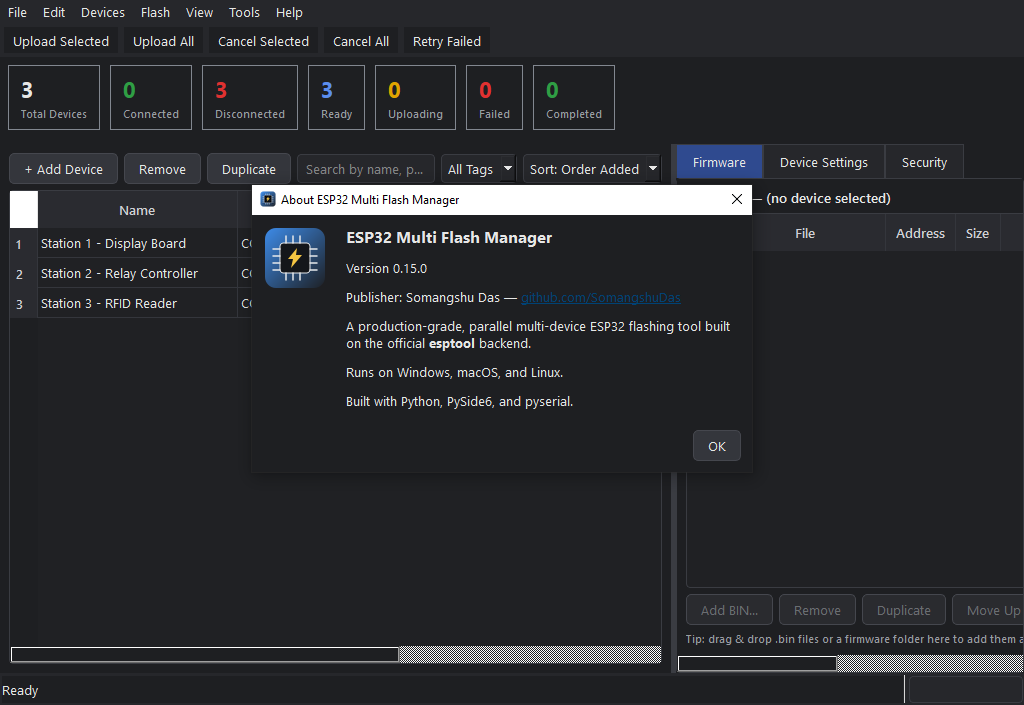
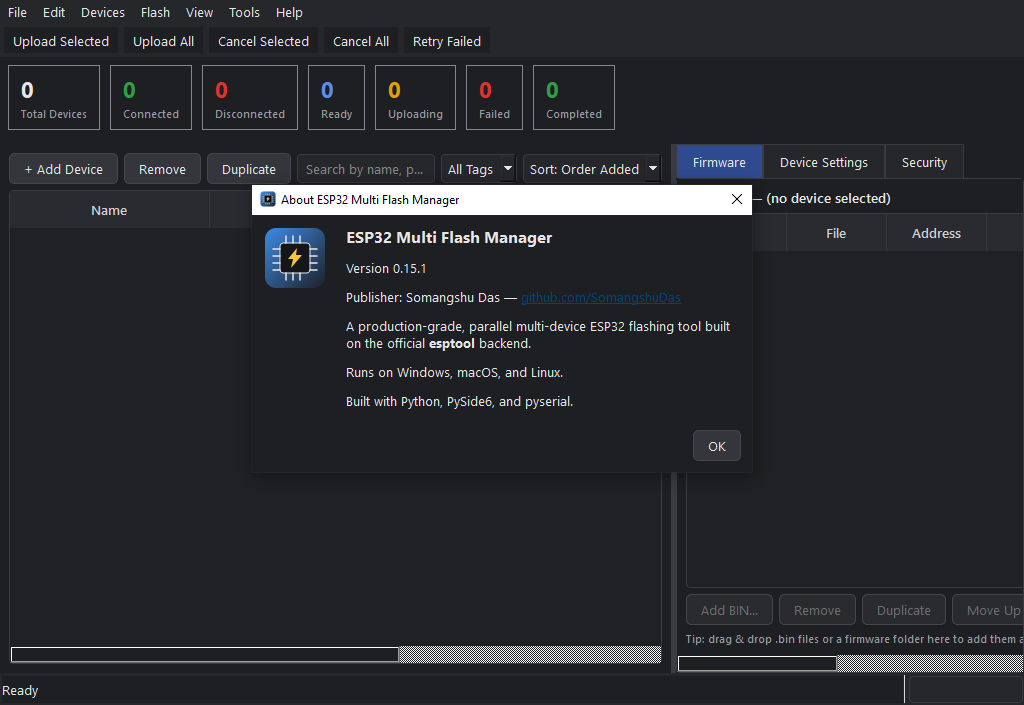
fix: match esptool 5.4+ unbracketed progress bars

diff --git a/tests/flash_engine/test_esptool_wrapper.py b/tests/flash_engine/test_esptool_wrapper.py
@@ -1,13 +1,15 @@
 """
 Unit tests for the custom-args validation guard added to
-app/flash_engine/esptool_wrapper.py's FlashCommandBuilder.
+app/flash_engine/esptool_wrapper.py's FlashCommandBuilder, and for
+parse_progress_line()'s handling of every "Writing at..." line format
+esptool/esp-pylib are known to emit.
 """
 
 from __future__ import annotations
 
 import pytest
 
-from app.flash_engine.esptool_wrapper import FlashCommandBuilder
+from app.flash_engine.esptool_wrapper import FlashCommandBuilder, parse_progress_line
 from app.models.device_model import DeviceConfig
 from app.models.firmware_model import FirmwareEntry
 from app.utilities.constants import FLASH_MODES, SUPPORTED_CHIPS
@@ -47,3 +49,61 @@ class TestCustomFlashArgsGuard:
     def test_path_like_token_raises_value_error(self):
         with pytest.raises(ValueError):
             FlashCommandBuilder.build_write_flash_args(_device("../../etc/passwd"))
+
+
+class TestParseProgressLineWritingAt:
+    """
+    Regression coverage for every "Writing at..." format esptool/esp-pylib
+    are known to emit. Before this fix, _RE_WRITING_AT_CURRENT required a
+    literal "[...]" around the progress bar, which esp-pylib 1.1.5 (bundled
+    with esptool 5.4+) never prints -- its bar is unbracketed block-glyph
+    characters padded with spaces. Every "Writing at..." line from such an
+    install fell through to kind="raw", so the UI never left the
+    "Connecting"/"Preparing" stage and the progress bar never moved, even
+    though esptool itself was actively (and successfully) writing.
+    """
+
+    def test_legacy_format(self):
+        event = parse_progress_line("Writing at 0x00010000... (42 %)")
+        assert event.kind == "writing"
+        assert event.address == "0x00010000"
+        assert event.percent == 42
+
+    def test_bracketed_current_format(self):
+        # esptool 5.0-5.3's rich-based bar.
+        event = parse_progress_line(
+            "Writing at 0x00005a30 [==============================] 100.0% 13104/13104 bytes..."
+        )
+        assert event.kind == "writing"
+        assert event.address == "0x00005a30"
+        assert event.percent == 100
+
+    def test_unbracketed_esp_pylib_format(self):
+        # esptool 5.4+ via esp-pylib's EspLog.progress_bar(): no brackets
+        # around the bar, block-character glyphs padded with spaces, one
+        # full line per update when stdout is piped (not a TTY) -- this is
+        # the format that previously fell through to "raw" and left the
+        # status badge stuck before the upload ever appeared to start.
+        line = (
+            "Writing at 0x00001000 "
+            "\u2501\u2501\u2501\u2501\u2501\u2501\u2501\u2501\u2501\u2501\u2501"
+            "                     38.2% 4.88kB/12.80kB [0s] "
+        )
+        event = parse_progress_line(line)
+        assert event.kind == "writing"
+        assert event.address == "0x00001000"
+        assert event.percent == 38
+
+    def test_unbracketed_esp_pylib_format_complete(self):
+        line = (
+            "Writing at 0x00003390 "
+            + "\u2501" * 30
+            + " 100.0% 12.80kB/12.80kB [0s] "
+        )
+        event = parse_progress_line(line)
+        assert event.kind == "writing"
+        assert event.address == "0x00003390"
+        assert event.percent == 100
+
+    def test_non_writing_lines_still_fall_through_to_raw(self):
+        assert parse_progress_line("Some unrelated esptool banner line").kind == "raw"

diff --git a/app/flash_engine/esptool_wrapper.py b/app/flash_engine/esptool_wrapper.py
@@ -43,24 +43,38 @@ logger = get_logger(__name__)
 # Regexes used to turn raw esptool stdout lines into structured progress.
 #
 # esptool's own progress-line format has changed across major versions, and
-# both are seen in the wild depending on which esptool build a machine has:
+# several are seen in the wild depending on which esptool build a machine
+# has:
 #
 #   legacy (esptool < 5):
 #     "Writing at 0x00010000... (42 %)"
-#   current (esptool 5.x, rich-based progress bar, plain-text when piped):
+#   esptool 5.0-5.3 (rich-based progress bar, bracketed, plain-text when
+#   piped):
 #     "Writing at 0x00001000 [ ] 0.0% 0/13104 bytes..."
 #     "Writing at 0x00005a30 [==============================] 100.0% 13104/13104 bytes..."
+#   current (esptool 5.4+, delegates rendering to esp-pylib's EspLog --
+#   the bar itself is unbracketed block-character glyphs padded with
+#   spaces, one full line per update when stdout isn't a TTY):
+#     "Writing at 0x00001000 \u2501\u2501\u2501\u2501\u2501\u2501\u2501\u2501\u2501\u2501\u2501                     38.2% 4.88kB/12.80kB [0s] "
 #
-# The legacy-only pattern silently matched nothing against 5.x output,
-# which meant every "writing" line fell through to "raw" -- no progress
-# updates, and no re-assertion of the "Uploading" status after a prior
-# "Hash of data verified." line, leaving the status badge stuck on
-# "Verifying" for the rest of the run even though esptool was actively
-# writing the next file. Both formats are matched here so this keeps
-# working regardless of which esptool version is bundled/installed.
+# _RE_WRITING_AT_CURRENT previously required a literal "[...]" around the
+# bar, which matched the 5.0-5.3 format but not esp-pylib's unbracketed
+# one -- every "Writing at..." line from a 5.4+ install fell through to
+# "raw", so no progress updates were ever emitted and the status badge
+# never advanced past "Connecting"/"Preparing" even though esptool was
+# actively writing (the write itself, and its eventual success/failure,
+# were unaffected -- only the UI's visibility into it). The bar's
+# contents are now matched with a non-greedy ".*?" instead of an exact
+# delimiter, which tolerates brackets, unbracketed glyphs, or anything
+# else esptool/esp-pylib render between the address and the percentage,
+# so this keeps working regardless of which esptool version is
+# bundled/installed. The legacy pattern is also still matched here so
+# both keep working; see the "writing" branch in FlashWorker._run_impl
+# for why every match (not just the first) has to re-assert the
+# "Uploading" status.
 # --------------------------------------------------------------------------
 _RE_WRITING_AT_LEGACY = re.compile(r"Writing at (0x[0-9a-fA-F]+)\.\.\.\s*\((\d+(?:\.\d+)?)\s*%\)")
-_RE_WRITING_AT_CURRENT = re.compile(r"Writing at (0x[0-9a-fA-F]+)\s*\[[^\]]*\]\s*(\d+(?:\.\d+)?)\s*%")
+_RE_WRITING_AT_CURRENT = re.compile(r"Writing at (0x[0-9a-fA-F]+)\s.*?(\d+(?:\.\d+)?)\s*%")
 _RE_CONNECTING = re.compile(r"Connecting\.\.\.|Serial port")
 _RE_ERASING = re.compile(r"Erasing flash|Chip erase")
 _RE_HASH_VERIFIED = re.compile(r"Hash of data verified")

diff --git a/app/utilities/constants.py b/app/utilities/constants.py
@@ -9,7 +9,7 @@ and makes future firmware/chip support trivial to extend.
 from __future__ import annotations
 
 APP_NAME = "ESP32 Multi Flash Manager"
-APP_VERSION = "0.15.0"
+APP_VERSION = "0.15.1"
 ORG_NAME = "Somangshu Das"
 
 # --------------------------------------------------------------------------

diff --git a/CHANGELOG.md b/CHANGELOG.md
@@ -1,4 +1,4 @@
-<!-- APP_VERSION: 0.15.0 -->
+<!-- APP_VERSION: 0.15.1 -->
 # Changelog
 
 All notable changes to ESP32 Multi Flash Manager are documented here,
@@ -12,6 +12,31 @@ README.md) is machine-checked: `.github/workflows/version_check.yml`
 fails a tagged-release build if either marker's version doesn't match
 `APP_VERSION` in `app/utilities/constants.py`. Bump both when you bump
 that constant.
+
+## [0.15.1] - 2026-09-18
+
+### Fixed
+- **Upload status/progress bar stuck on "Connecting"/"Preparing" for the
+  whole flash**: esptool 5.4+ (via `esp-pylib` 1.1.5) renders its
+  `Writing at 0x...` progress line without the `[...]`-bracketed bar the
+  parser required, e.g. `Writing at 0x00001000 ━━━━━━━━━━━     38.2%
+  4.88kB/12.80kB [0s]` instead of the older `Writing at 0x00001000 [   ]
+  0.0% 0/13104 bytes...`. Every such line fell through to the generic
+  "raw" event, so the status badge and per-device progress bar never
+  advanced past the pre-upload stage even though esptool was actively
+  (and successfully) writing to the device -- the flash itself was
+  unaffected, only the UI's visibility into it. `_RE_WRITING_AT_CURRENT`
+  in `app/flash_engine/esptool_wrapper.py` now matches the bar contents
+  with a non-greedy wildcard instead of requiring literal brackets, so
+  it recognizes the bar in either format.
+
+### Internal
+- Added `TestParseProgressLineWritingAt` (`tests/flash_engine/
+  test_esptool_wrapper.py`) covering the legacy, bracketed-current, and
+  unbracketed-current `Writing at...` line formats so a future esptool/
+  esp-pylib rendering change is caught here instead of in the field.
+- Updated `about-dialog.png` to reflect the new version number.
+- APP_VERSION bumped to 0.15.1 in app/utilities/constants.py.
 
 ## [0.15.0] - 2026-09-09
 

diff --git a/docs/BUILD_INSTRUCTIONS.md b/docs/BUILD_INSTRUCTIONS.md
@@ -219,7 +219,7 @@ OS).
   rather than a portable one the next time it checks for updates.
 
   ```powershell
-  .\packaging\windows\build_installer.ps1 -Version 0.15.0
+  .\packaging\windows\build_installer.ps1 -Version 0.15.1
   ```
 
 - **macOS** —
@@ -233,7 +233,7 @@ OS).
   `dist/installer/ESP32MultiFlashManager-<version>.dmg`.
 
   ```bash
-  packaging/macos/build_dmg.sh 0.15.0
+  packaging/macos/build_dmg.sh 0.15.1
   ```
 
 - **Linux** —
@@ -247,7 +247,7 @@ OS).
   `appimagetool` (downloaded automatically if not already on `PATH`).
 
   ```bash
-  packaging/linux/build_appimage.sh 0.15.0
+  packaging/linux/build_appimage.sh 0.15.1
   ```
 
 ## 5. Continuous Integration

diff --git a/README.md b/README.md
@@ -1,5 +1,5 @@
 # ESP32 Multi Flash Manager
-<!-- APP_VERSION: 0.15.0 -->
+<!-- APP_VERSION: 0.15.1 -->
 
 A production-grade, cross-platform desktop application for flashing
 firmware onto a bench of ESP32 devices in parallel — with a
